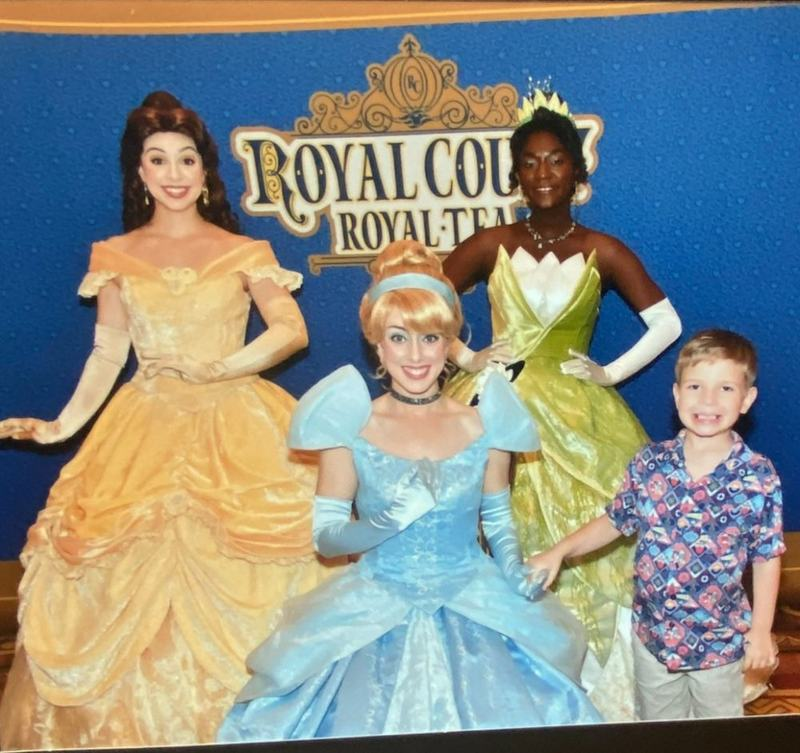
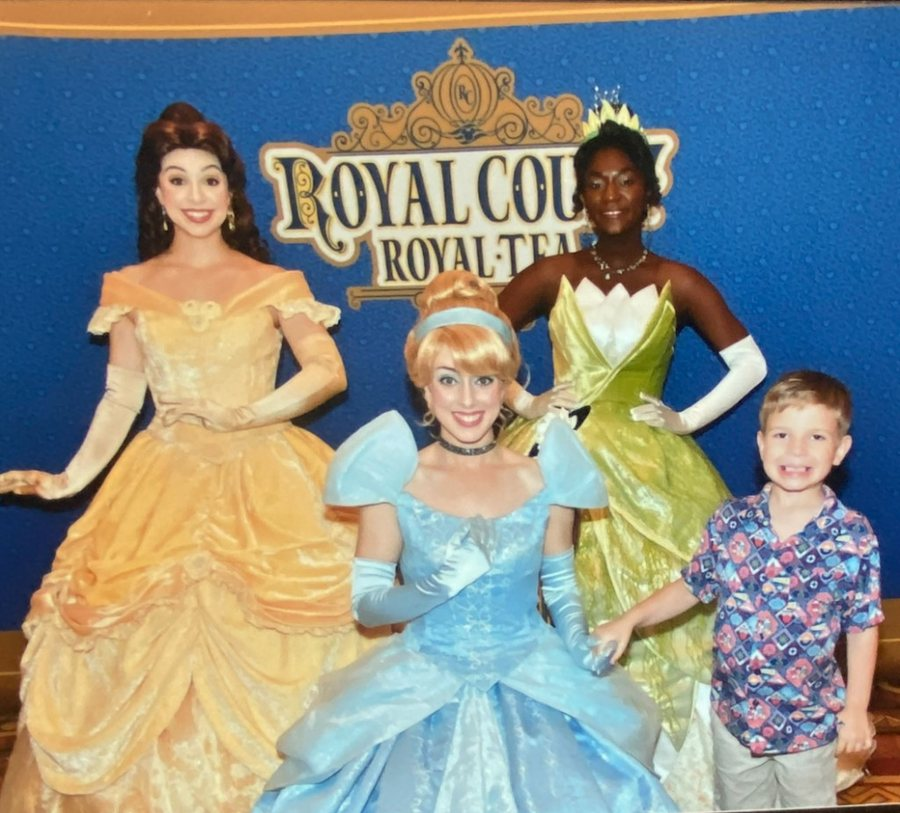
Crop the dark edge off the character meet-ups card photo.

diff --git a/index.html b/index.html
@@ -287,7 +287,8 @@
   }
   .card-media.royal-tea{
     background-image:url('/assets/images/royal-tea-character-meet.jpg');
-    background-position:center 32%;
+    background-size:cover;
+    background-position:center 30%;
   }
   .card-media.spiderman-dining{
     background-image:url('/assets/images/spiderman-dining-meet.jpg');
